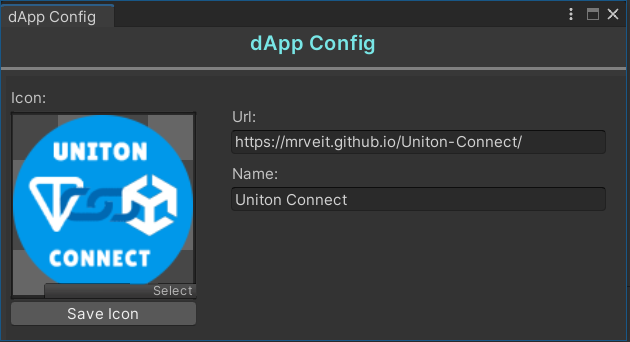
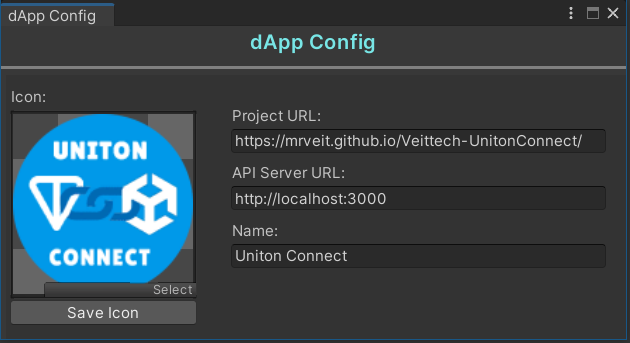
Added the option to upload images for wallets or nft through your proxy server and more
Added additional methods to quickly get a link to different NFT icon formats.

diff --git a/Uniton Connect/Samples/Scripts/Panels/TestWalletNftCollectionsPanel.cs b/Uniton Connect/Samples/Scripts/Panels/TestWalletNftCollectionsPanel.cs
@@ -12,6 +12,7 @@ namespace UnitonConnect.Core.Demo
 {
     public sealed class TestWalletNftCollectionsPanel : TestBasePanel
     {
+        [SerializeField, Space] private UnitonConnectSDK _unitonConnect;
         [SerializeField, Space] private TestNftView _nftPrefab;
         [SerializeField, Space] private TextMeshProUGUI _warningMessage;
         [SerializeField, Space] private GameObject _loadAnimation;
@@ -25,24 +26,22 @@ namespace UnitonConnect.Core.Demo
 
         private readonly float _slotSize = 350f;
 
-        private UnitonConnectSDK _unitonConnect => UnitonConnectSDK.Instance;
-
         private UserAssets.NFT _nftModule => _unitonConnect.Assets.Nft;
 
         private void OnEnable()
         {
+            _unitonConnect.OnWalletDisconnected += RemoveNftCollectionStorage;
+
             _nftModule.OnNftCollectionsClaimed += NftCollectionsClaimed;
             _nftModule.OnNftCollectionsNotFounded += NftCollectionsNotFounded;
-
-            _unitonConnect.OnWalletDisconnected += RemoveNftCollectionStorage;
         }
 
-        private void OnDisable()
+        private void OnDestroy()
         {
+            _unitonConnect.OnWalletDisconnected -= RemoveNftCollectionStorage;
+
             _nftModule.OnNftCollectionsClaimed -= NftCollectionsClaimed;
             _nftModule.OnNftCollectionsNotFounded -= NftCollectionsNotFounded;
-
-            _unitonConnect.OnWalletDisconnected -= RemoveNftCollectionStorage;
         }
 
         public void Init()
@@ -86,24 +85,15 @@ namespace UnitonConnect.Core.Demo
 
         private async Task<List<NftViewData>> CreateNftViewContainer(NftCollectionData collections)
         {
-#if !UNITY_EDITOR || UNITY_WEBGL
-            if (!IsSupportedWebServer())
-            {
-                UnitonConnectLogger.LogWarning("CORS header reads are not available via" +
-                    " Github Pages for downloading images from NFT collections." +
-                    " Deploy the web build to your server and configure the CORS header there.");
-
-                return null;
-            }
-#endif
-
             List<NftViewData> nftVisual = new();
 
             foreach (var nft in collections.Items)
             {
-                var iconUrl = nft.Metadata.IconURL;
+                var iconUrl = nft.Get100x100ResolutionWebp();
 
-                var nftIcon = await WalletVisualUtils.GetWalletIconFromServerAsync(iconUrl);
+                UnitonConnectLogger.Log($"Claimed icon by urL: {iconUrl}");
+
+                var nftIcon = await WalletVisualUtils.GetIconFromProxyServerAsync(iconUrl);
                 var nftName = nft.Metadata.ItemName;
 
                 var newNftView = new NftViewData()

diff --git a/Uniton Connect/Runtime/Utils/Wallet/WalletVisualUtils.cs b/Uniton Connect/Runtime/Utils/Wallet/WalletVisualUtils.cs
@@ -5,7 +5,7 @@ using UnityEngine.Networking;
 using TonSdk.Connect;
 using UnitonConnect.Core.Data;
 using UnitonConnect.Core.Utils.Debugging;
-using System;
+using UnitonConnect.Editor.Common;
 
 namespace UnitonConnect.Core.Utils.View
 {
@@ -58,6 +58,58 @@ namespace UnitonConnect.Core.Utils.View
                 walletIcon = DownloadHandlerTexture.GetContent(request);
 
                 return walletIcon;
+            }
+        }
+
+        /// <summary>
+        /// Uploading a webp icon, which is converted to jpeg/png on the api server for further use in the project
+        /// </summary>
+        /// <param name="imageUrl">Link to cached webp image from NFT collection</param>
+        /// <returns></returns>
+        public static async Task<Texture2D> GetIconFromProxyServerAsync(string imageUrl)
+        {
+            var dAppData = ProjectStorageConsts.GetRuntimeAppStorage();
+
+            if (string.IsNullOrEmpty(dAppData.Data.ServerApiLink))
+            {
+                UnitonConnectLogger.LogError("For loading nft or wallet icon from the cache storage," +
+                    " you need to run the API Server to successfully convert to the desired format");
+
+                return null;
+            }
+
+            string apiUrl = ProjectStorageConsts.GetNftIconConvertURL(imageUrl);
+
+            Debug.Log($"APi url response: {apiUrl}");
+
+            using (UnityWebRequest request = UnityWebRequest.Get(apiUrl))
+            {
+                var operation = request.SendWebRequest();
+
+                while (!operation.isDone)
+                {
+                    await Task.Yield();
+                }
+
+                if (request.result != WebRequestUtils.SUCCESS)
+                {
+                    UnitonConnectLogger.LogError($"Failed to load image by api server: {request.error}");
+
+                    return null;
+                }
+
+                byte[] imageData = request.downloadHandler.data;
+
+                Texture2D texture = new(2, 2);
+
+                if (texture.LoadImage(imageData))
+                {
+                    UnitonConnectLogger.Log($"Loaded image {texture.name} with sise: {texture.width}x{texture.height}");
+
+                    return texture;
+                }
+
+                return null;
             }
         }
 

diff --git a/Uniton Connect/Runtime/Data/NFT/NftItemData.cs b/Uniton Connect/Runtime/Data/NFT/NftItemData.cs
@@ -1,6 +1,7 @@
 using System;
 using System.Collections.Generic;
 using Newtonsoft.Json;
+using UnitonConnect.Core.Utils.Debugging;
 
 namespace UnitonConnect.Runtime.Data
 {
@@ -42,5 +43,69 @@ namespace UnitonConnect.Runtime.Data
 
         [JsonProperty("trust")]
         public string Trust { get; set; }
+
+        public string GetBestResolutionPng()
+        {
+            return Metadata.IconURL;
+        }
+
+        public string Get5x5ResolutionWebp()
+        {
+            if (!IsDetectedTargetSize(0))
+            {
+                UnitonConnectLogger.LogError("5x5 image size not detected");
+
+                return string.Empty;
+            }
+
+            return Previews[0].Url;
+        }
+
+        public string Get100x100ResolutionWebp()
+        {
+            if (!IsDetectedTargetSize(1))
+            {
+                UnitonConnectLogger.LogError("100x100 image size not detected");
+
+                return string.Empty;
+            }
+
+            return Previews[1].Url;
+        }
+
+        public string Get500x500ResolutionWebp()
+        {
+            if (!IsDetectedTargetSize(2))
+            {
+                UnitonConnectLogger.LogError("500x500 image size not detected");
+
+                return string.Empty;
+            }
+
+            return Previews[2].Url;
+        }
+
+        public string Get1500x1500ResolutionWebp()
+        {
+            if (!IsDetectedTargetSize(3))
+            {
+                UnitonConnectLogger.LogError("1500x1500 image size not detected");
+
+                return string.Empty;
+            }
+
+            return Previews[3].Url;
+        }
+
+        private bool IsDetectedTargetSize(int id)
+        {
+            if (Previews[id] == null || Previews.Count == 0)
+            {
+                return false;
+            }
+
+            return true;
+        }
+
     }
 }

diff --git a/Uniton Connect/Editor/UI/DAppSetupWindow.cs b/Uniton Connect/Editor/UI/DAppSetupWindow.cs
@@ -81,9 +81,15 @@ namespace UnitonConnect.Editor.SetupWindow
 
             GUILayout.Space(20);
 
-            EditorGUILayout.LabelField("Url:", GUILayout.Width(150));
+            EditorGUILayout.LabelField("Project URL:", GUILayout.Width(150));
             DAppSetupData.Instance.ProjectLink = GUILayout.TextField(
                 DAppSetupData.Instance.ProjectLink, GUILayout.Width(300));
+
+            GUILayout.Space(5);
+
+            EditorGUILayout.LabelField("API Server URL:", GUILayout.Width(150));
+            DAppSetupData.Instance.ServerApiLink = GUILayout.TextField(
+                DAppSetupData.Instance.ServerApiLink, GUILayout.Width(300));
 
             GUILayout.Space(5);
 
@@ -151,11 +157,11 @@ namespace UnitonConnect.Editor.SetupWindow
 
         private void UpdateRuntimeStorage()
         {
-            var runtimeStorage = Resources.Load<DAppConfig>(
-                $"{ProjectStorageConsts.RUNTIME_FOLDER_IN_RESOURCES}/" +
-                $"{ProjectStorageConsts.RUNTIME_FILE_NAME_WITOUT_FORMAT}");
+            var runtimeStorage = ProjectStorageConsts.GetRuntimeAppStorage();
 
             runtimeStorage.Data.ProjectLink = DAppSetupData.Instance.ProjectLink;
+            runtimeStorage.Data.ServerApiLink = DAppSetupData.Instance.ServerApiLink;
+
             runtimeStorage.Data.Name = DAppSetupData.Instance.Name;
             runtimeStorage.Data.Icon = DAppSetupData.Instance.Icon;
 

diff --git a/Uniton Connect/Runtime/Consts/ProjectStorageConsts.cs b/Uniton Connect/Runtime/Consts/ProjectStorageConsts.cs
@@ -1,6 +1,7 @@
 using UnityEngine;
 using TonSdk.Connect;
 using UnitonConnect.Runtime.Data;
+using UnityEngine.Networking;
 
 namespace UnitonConnect.Editor.Common
 {
@@ -29,6 +30,8 @@ namespace UnitonConnect.Editor.Common
 
         public const string TEST_SUPPORTED_WALLETS_LINK = "https://raw.githubusercontent.com/ton-blockchain/wallets-list/main/wallets-v2.json";
 
+        private const string GET_NFT_IMAGE_CONVERTER = "/get-nft-image?url=";
+
         public static string GetTestAppManifest()
         {
             return GetAppManifest(TEST_APP_URL, APP_DATA_FILE_NAME);
@@ -49,9 +52,24 @@ namespace UnitonConnect.Editor.Common
             PlayerPrefs.DeleteKey(GetSaveConnectionKey(connectionKey));
         }
 
+        public static string GetNftIconConvertURL(string iconUrl)
+        {
+            var runtimeData = GetRuntimeAppStorage().Data;
+
+            string apiUrl = $"{runtimeData.ServerApiLink}" +
+                $"{GET_NFT_IMAGE_CONVERTER}{GetEscapedURLContent(iconUrl)}";
+
+            return apiUrl;
+        }
+
         private static string GetSaveConnectionKey(string connectionKey)
         {
             return $"{RemoteStorage.STORAGE_PREFIX}{connectionKey}";
+        }
+
+        private static string GetEscapedURLContent(string value)
+        {
+            return UnityWebRequest.EscapeURL(value);
         }
     }
 }

diff --git a/Uniton Connect/Runtime/Data/DApp/DAppData.cs b/Uniton Connect/Runtime/Data/DApp/DAppData.cs
@@ -7,6 +7,7 @@ namespace UnitonConnect.Runtime.Data
     public sealed class DAppData
     {
         [field: SerializeField, Space] public string ProjectLink { get; set; }
+        [field: SerializeField, Space] public string ServerApiLink { get; set; }
         [field: SerializeField] public string Name { get; set; }
         [field: SerializeField, Space] public Texture2D Icon { get; set; }
     }

diff --git a/Uniton Connect/Editor/Common/Data/DAppSetupData.cs b/Uniton Connect/Editor/Common/Data/DAppSetupData.cs
@@ -46,6 +46,12 @@ namespace UnitonConnect.Editor.SetupWindow.Data
             set => Data.ProjectLink = value;
         }
 
+        public string ServerApiLink
+        {
+            get => Data.ServerApiLink;
+            set => Data.ServerApiLink = value;
+        }
+
         public string Name
         {
             get => Data.Name;
